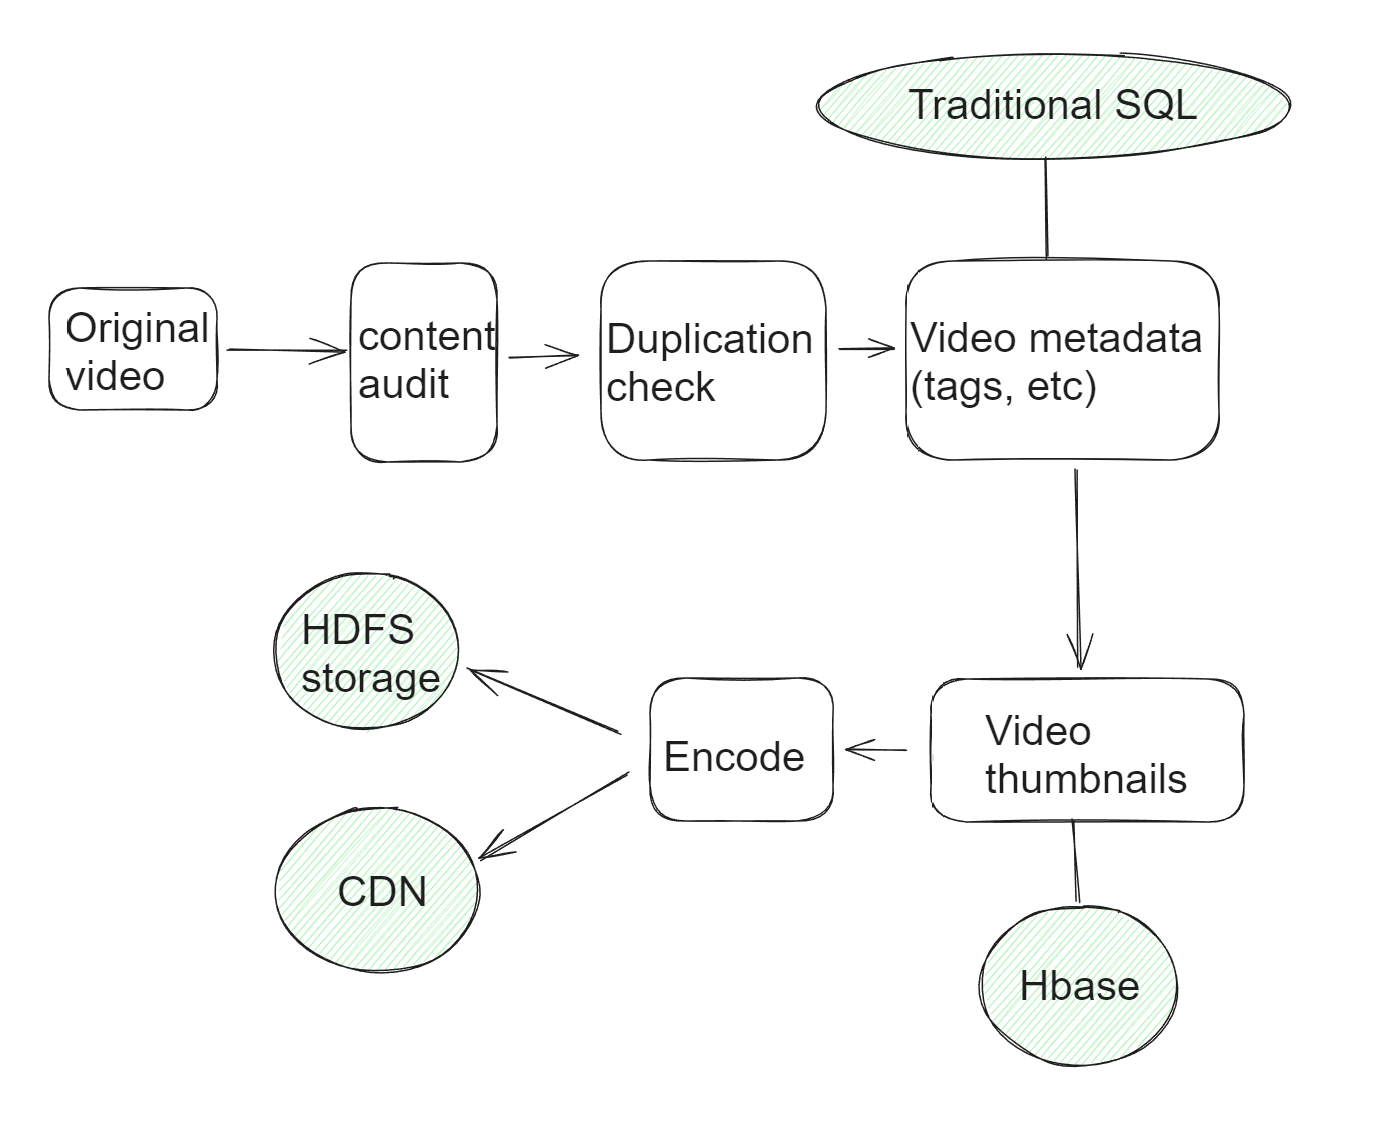
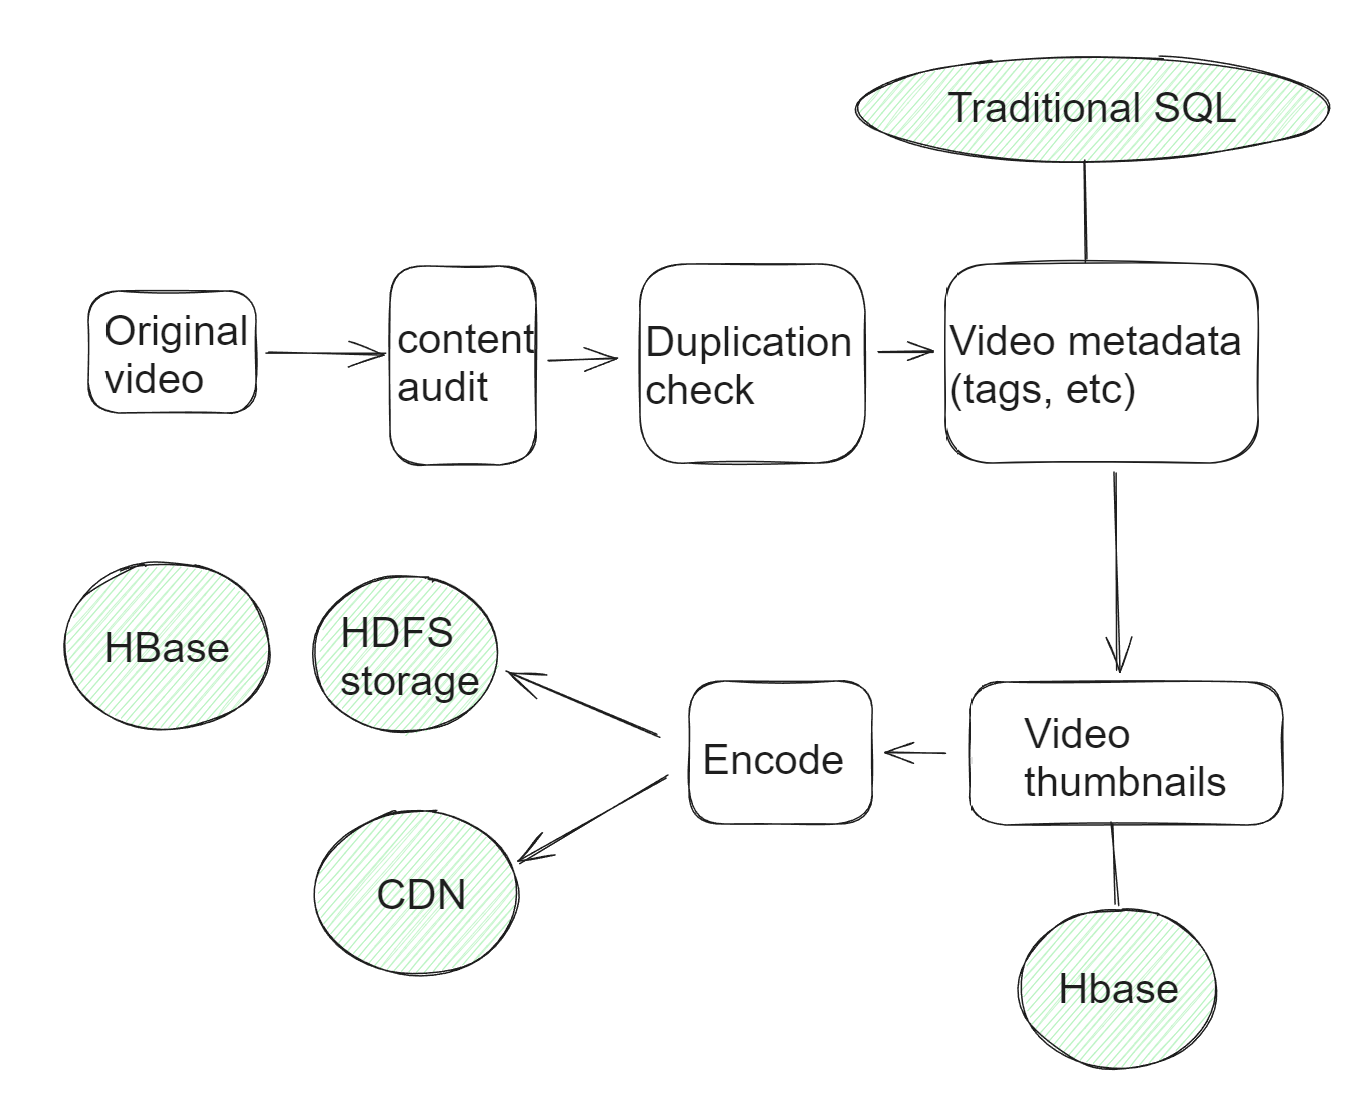
refactor

diff --git a/scenario_onlinevideo/storage.md b/scenario_onlinevideo/storage.md
@@ -1,10 +1,19 @@
 - [Storage](#storage)
-  - [Video chunks](#video-chunks)
+  - [HBase schema](#hbase-schema)
   - [Thumbnails](#thumbnails)
 
 # Storage
+## HBase schema
 
-## Video chunks
+```
+# HDFS ID => (HDFS Path, Offset, Size)
+# For example
+123 => (/data/videos/clust0/p0/000000001, 0,          99000000)
+456 => (/data/videos/clust0/p0/000000001, 99000000,  100000000)
+789 => (/data/videos/clust0/p0/000000001, 199000000, 880000000)
+...
+
+```
 
 ## Thumbnails
 

diff --git a/SUMMARY.md b/SUMMARY.md
@@ -80,6 +80,7 @@
 * [Youtube](scenario_onlinevideo/overview.md)
   * [Estimation](scenario_onlinevideo/estimation.md)
   * [Flowchart](scenario_onlinevideo/flowchart.md)
+  * [Performance](scenario_onlinevideo/performance.md)
   * [Storage](scenario_onlinevideo/storage.md)
   * [Follow-up](scenario_onlinevideo/follow-up.md)
   * [Netflix](scenario_onlinevideo/netflix.md)

diff --git a/scenario_onlinevideo/flowchart.md b/scenario_onlinevideo/flowchart.md
@@ -17,3 +17,4 @@
 * Video transcoding: Videos are converted to support different container/codec. Video transcoding is to 
   * Raw video consumes large amount of storage space. 
   * Many browsers and devices only support certain form of encoding.
+

diff --git a/scenario_onlinevideo/estimation.md b/scenario_onlinevideo/estimation.md
@@ -28,7 +28,7 @@
 
 ```
 # The upload bandwidth
-10^5 * 100MB * 8bit = 80 TB
+10^5 * 100MB * 8bit = 80 TB/s
 ```
 
 ## Storage space

diff --git a/scenario_onlinevideo/performance.md b/scenario_onlinevideo/performance.md
@@ -1,0 +1,4 @@
+# Problem
+* As discussed in estimation, the bandwidth requirement will be 
+
+ # CDN pushes
